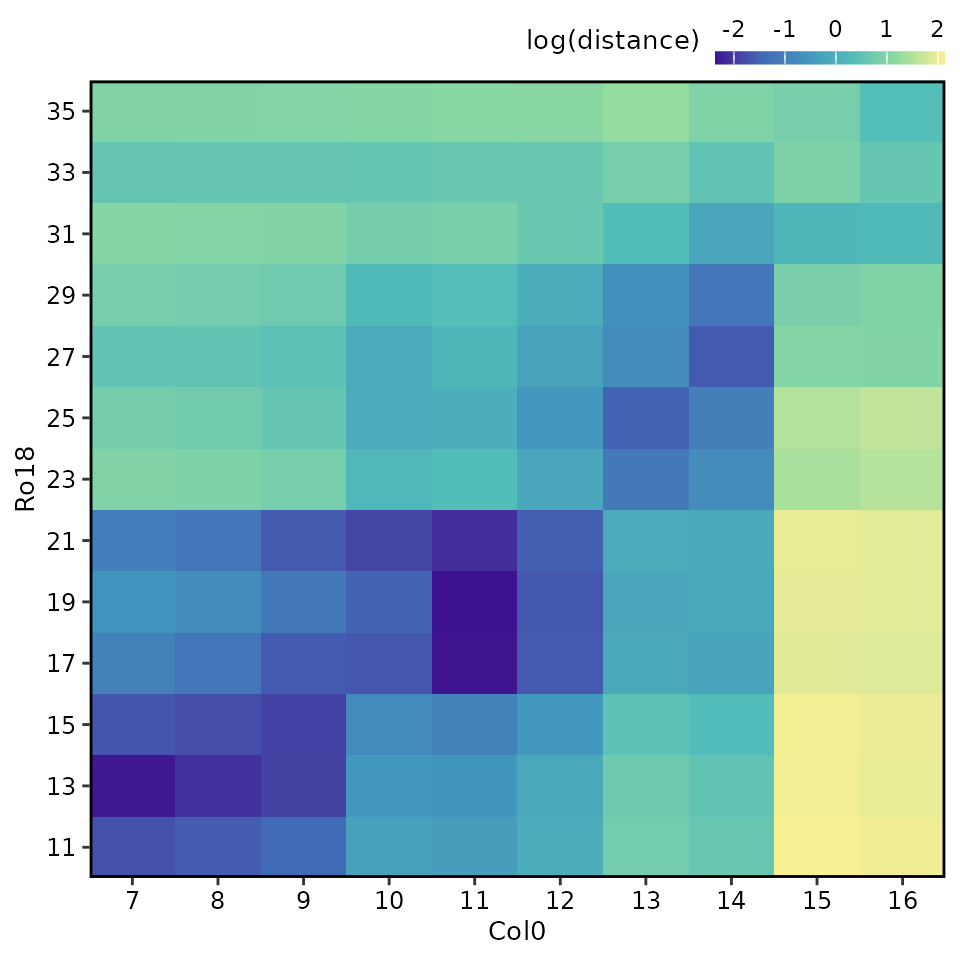
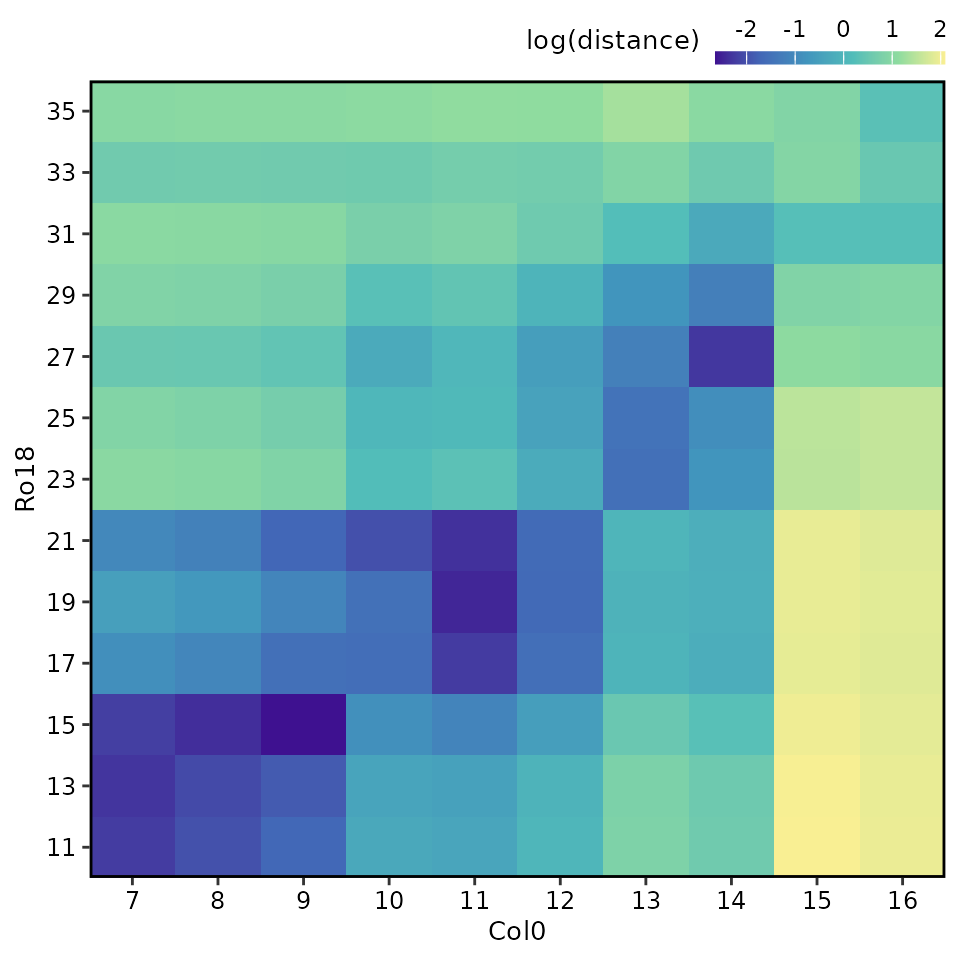
Deploying to gh-pages from @ ruthkr/greatR@2625b39076dbd5c3e977eb1f84f7847b1d7973ee 🚀

diff --git a/reference/plot.html b/reference/plot.html
@@ -88,6 +88,7 @@
 <span>  <span class="va">x</span>,</span>
 <span>  type <span class="op">=</span> <span class="fu"><a href="https://rdrr.io/r/base/c.html" class="external-link">c</a></span><span class="op">(</span><span class="st">"all"</span>, <span class="st">"registered"</span><span class="op">)</span>,</span>
 <span>  type_dist <span class="op">=</span> <span class="fu"><a href="https://rdrr.io/r/base/c.html" class="external-link">c</a></span><span class="op">(</span><span class="st">"histogram"</span>, <span class="st">"density"</span><span class="op">)</span>,</span>
+<span>  genes_list <span class="op">=</span> <span class="cn">NULL</span>,</span>
 <span>  bins <span class="op">=</span> <span class="fl">30</span>,</span>
 <span>  alpha <span class="op">=</span> <span class="cn">NA</span>,</span>
 <span>  scatterplot_size <span class="op">=</span> <span class="fu"><a href="https://rdrr.io/r/base/c.html" class="external-link">c</a></span><span class="op">(</span><span class="fl">4</span>, <span class="fl">3</span><span class="op">)</span>,</span>
@@ -107,7 +108,7 @@
 
 <dt>type</dt>
 <dd><p>Type of plot.</p><ul><li><p>For both <code>plot.res_greatR()</code> and  <code>plot.dist_greatR()</code>: whether to use registration "result" (default) or "original" time points.</p></li>
-<li><p>For <code>plot.summary.res_greatR()</code>: whether to show "all" registered and non-registered genes (default) or only "registered" ones.</p></li>
+<li><p>For <code>plot.summary.res_greatR()</code>: whether to show "all" genes (default) or only "registered" ones.</p></li>
 </ul></dd>
 
 

diff --git a/reference/calculate_distance.html b/reference/calculate_distance.html
@@ -69,13 +69,21 @@ investigate the similarity of progression before or after registration.</p>
 
     <div class="section level2">
     <h2 id="ref-usage">Usage<a class="anchor" aria-label="anchor" href="#ref-usage"></a></h2>
-    <div class="sourceCode"><pre class="sourceCode r"><code><span><span class="fu">calculate_distance</span><span class="op">(</span><span class="va">results</span><span class="op">)</span></span></code></pre></div>
+    <div class="sourceCode"><pre class="sourceCode r"><code><span><span class="fu">calculate_distance</span><span class="op">(</span><span class="va">results</span>, type <span class="op">=</span> <span class="fu"><a href="https://rdrr.io/r/base/c.html" class="external-link">c</a></span><span class="op">(</span><span class="st">"registered"</span>, <span class="st">"all"</span><span class="op">)</span>, genes_list <span class="op">=</span> <span class="cn">NULL</span><span class="op">)</span></span></code></pre></div>
     </div>
 
     <div class="section level2">
     <h2 id="arguments">Arguments<a class="anchor" aria-label="anchor" href="#arguments"></a></h2>
     <dl><dt>results</dt>
 <dd><p>Result of registration process using <code><a href="register.html">register()</a></code>.</p></dd>
+
+
+<dt>type</dt>
+<dd><p>Whether to calculate distance considering only "registered" genes (default) or "all" genes.</p></dd>
+
+
+<dt>genes_list</dt>
+<dd><p>Optional vector indicating the <code>gene_id</code> values to be considered.</p></dd>
 
 </dl></div>
     <div class="section level2">

diff --git a/reference/summary.html b/reference/summary.html
@@ -83,13 +83,16 @@
 
 <p>This function returns a list containing:</p>
 <dl><dt>summary</dt>
-<dd><p>contains result summaries of the registration results.</p></dd>
+<dd><p>table containing the summary of the registration results.</p></dd>
 
 <dt>registered_genes</dt>
 <dd><p>vector of gene accessions which were successfully registered.</p></dd>
 
 <dt>non_registered_genes</dt>
 <dd><p>vector of non-registered gene accessions.</p></dd>
+
+<dt>reg_params</dt>
+<dd><p>table containing distribution of registration parameters.</p></dd>
 
 </dl></div>
 
